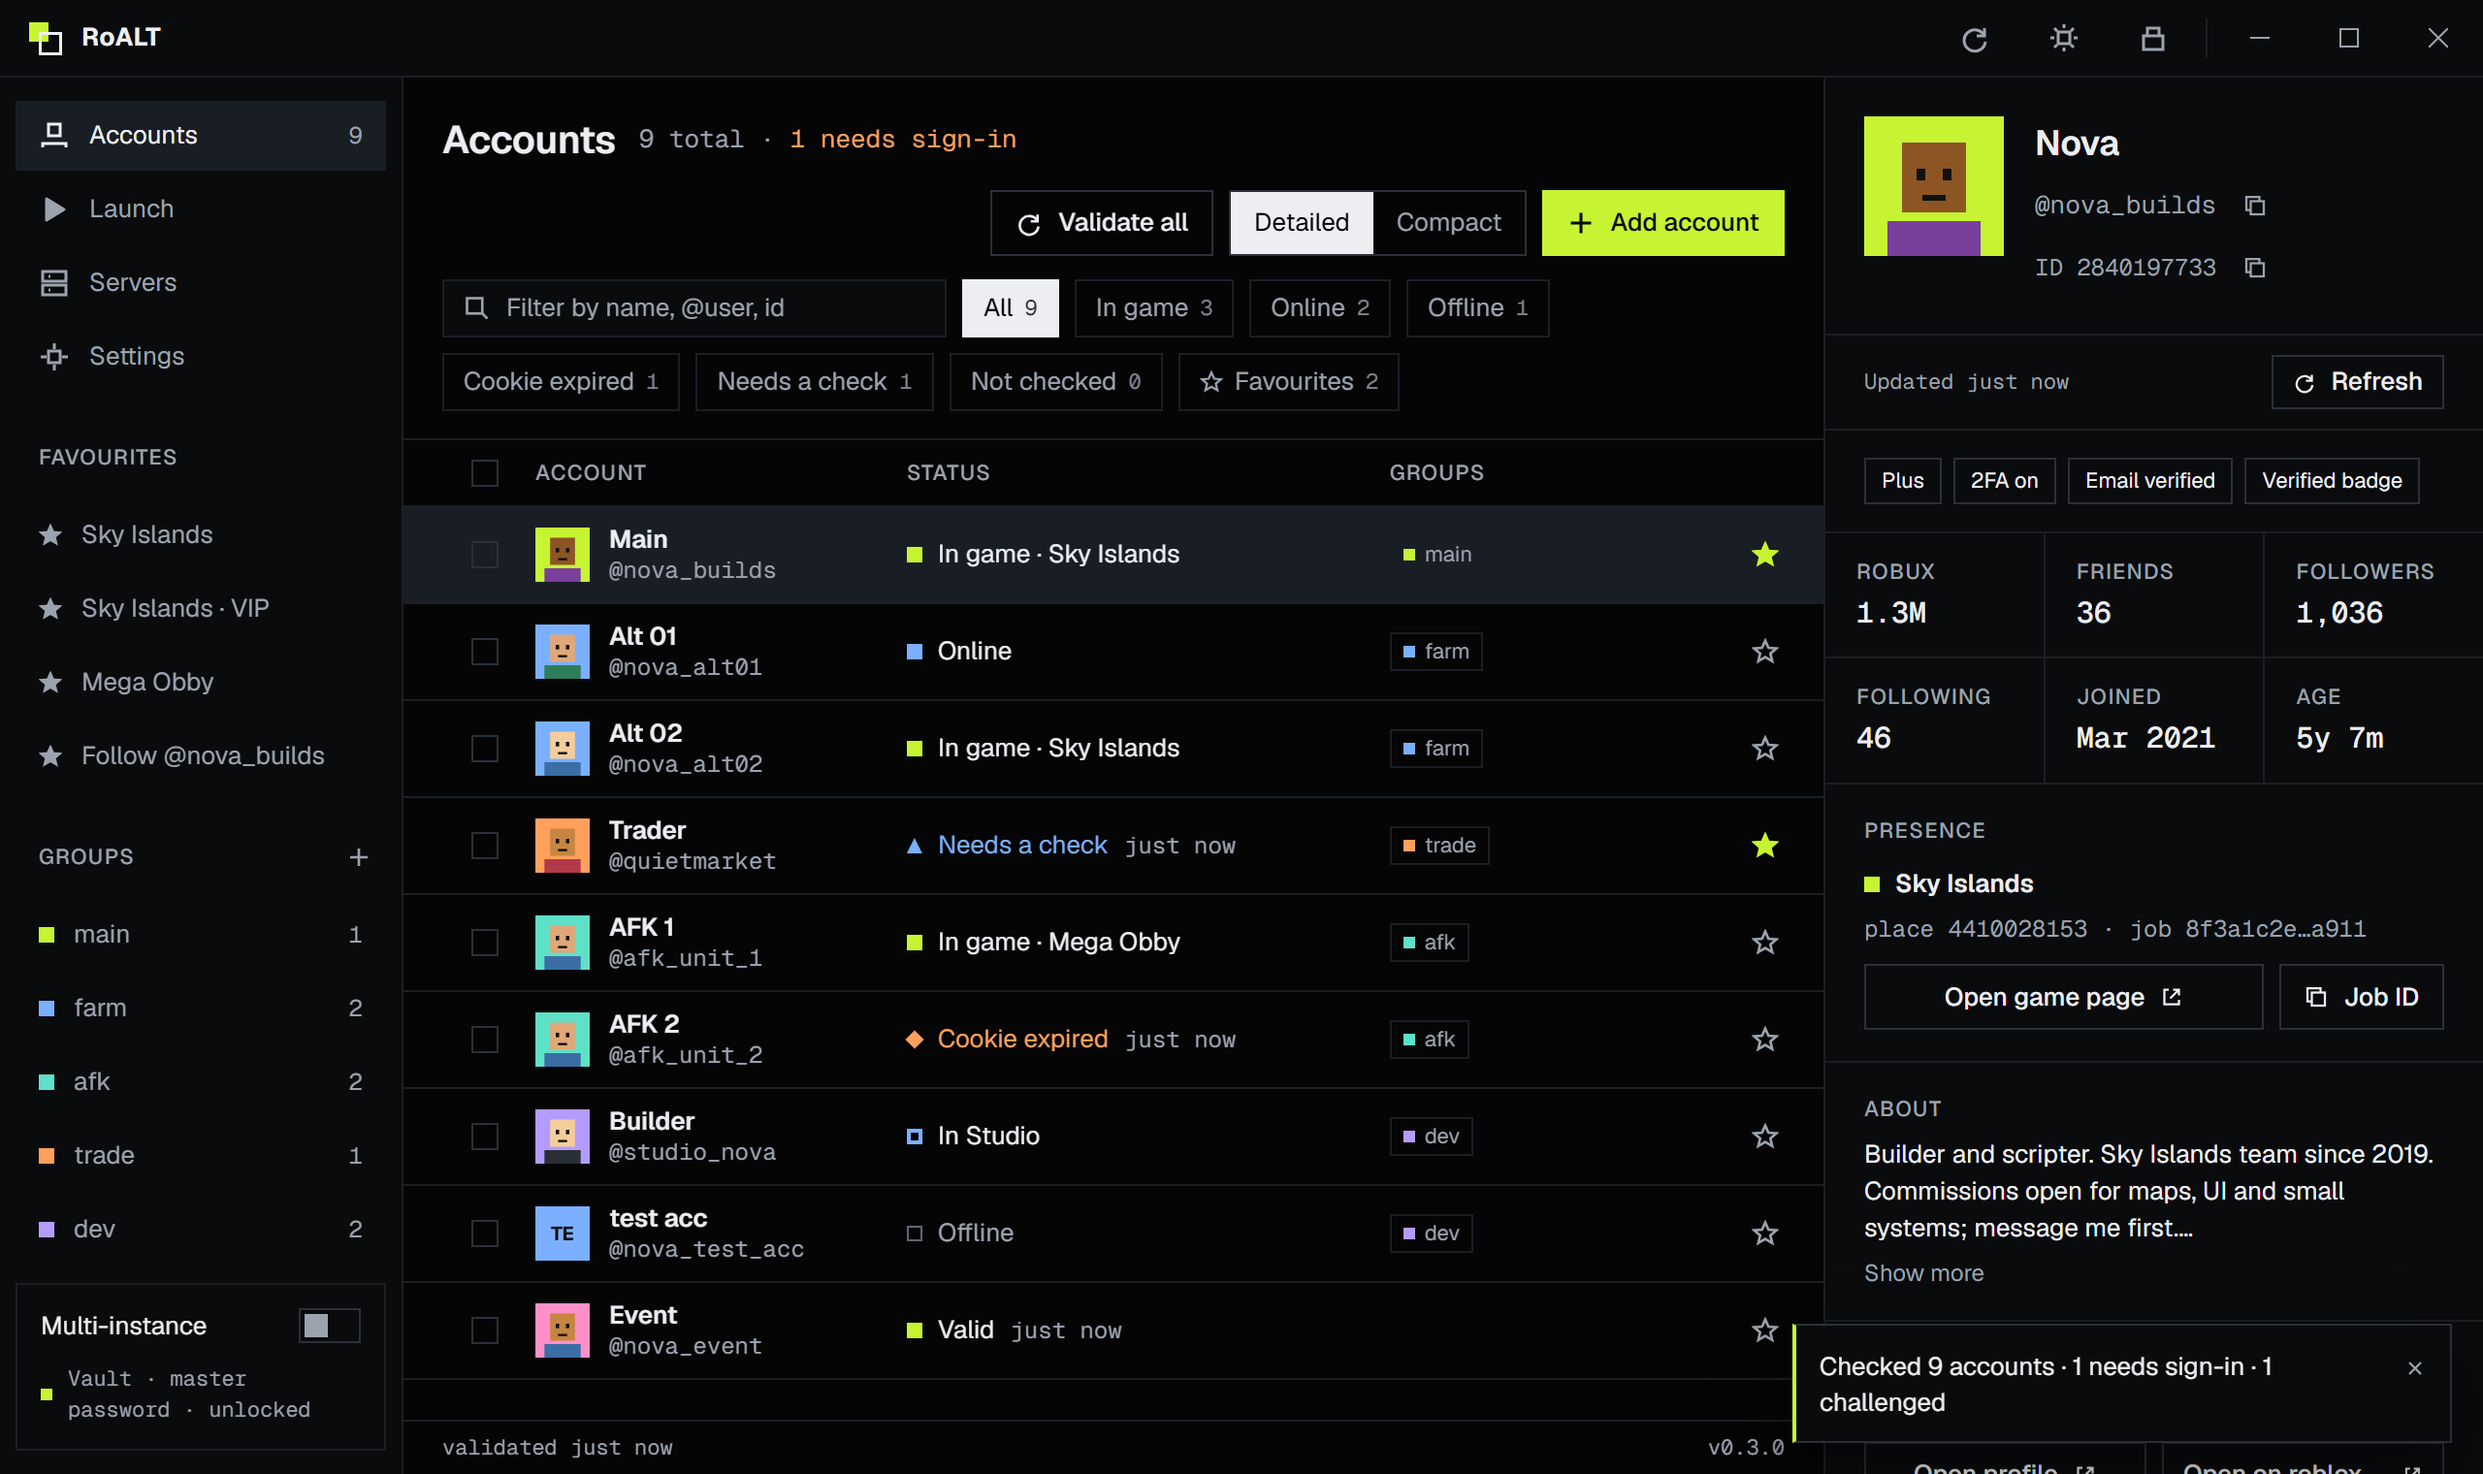
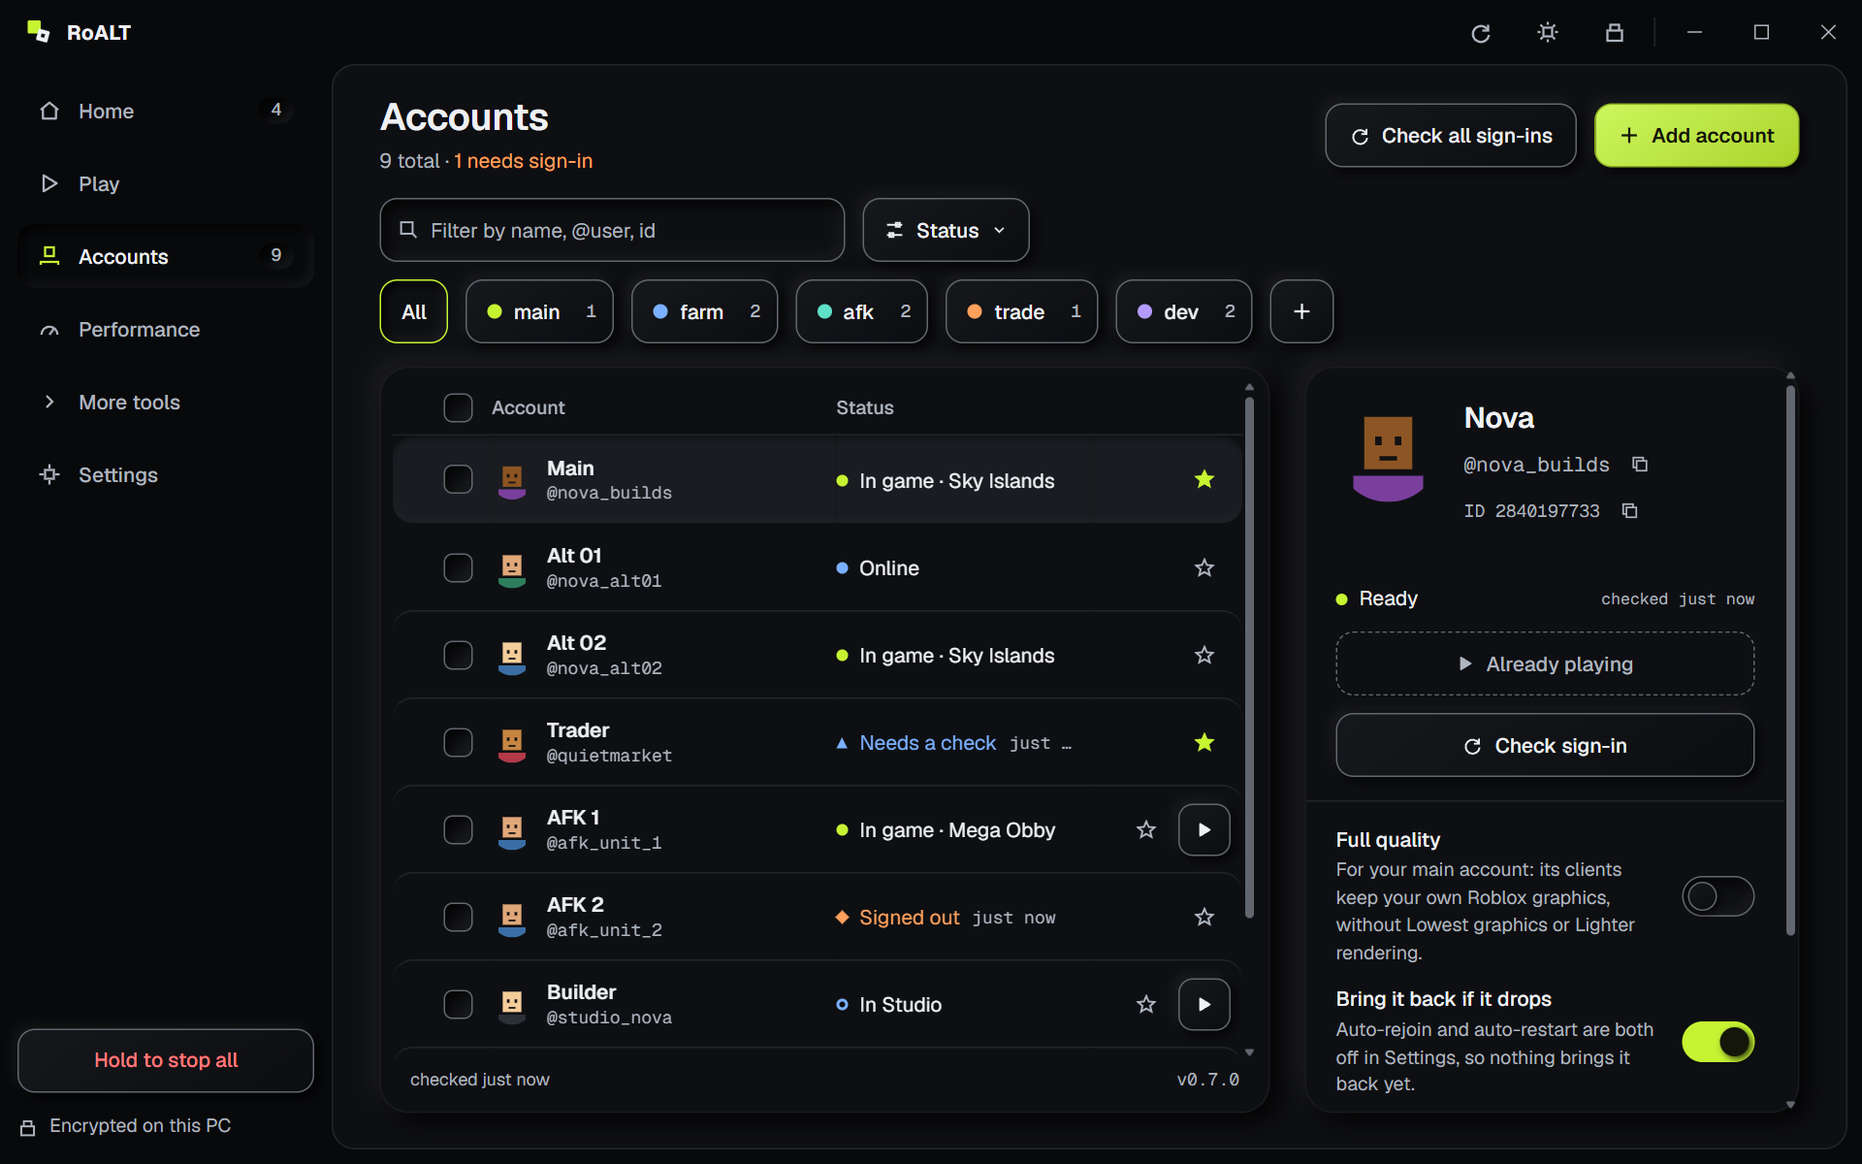
README: new design screenshots, 0.7.0 features
Screenshots of the Soft Deck design from the mock UI (made-up accounts). Adds
free resizing, the recovery code, graphics flags, Anti-AFK on Home, skip splash
and the version card, and brings shortcuts and the module list up to date.

diff --git a/README.md b/README.md
@@ -28,7 +28,7 @@ Your cookies stay encrypted on your PC. Nothing is sent anywhere except Roblox.
 
 <br>
 
-<img src="docs/images/accounts.png" alt="RoALT's Accounts view: a list of accounts with their status, groups and a details panel" width="900">
+<img src="docs/images/home.png" alt="RoALT's Home page: four running clients with live previews, and CPU, memory and GPU dials" width="900">
 
 </div>
 
@@ -60,6 +60,17 @@ and only ever one client open at a time. RoALT removes all of that.
 
 It runs entirely on your PC. There is no RoALT account, no RoALT server and no tracking.
 
+<table>
+<tr>
+<td width="50%"><img src="docs/images/accounts.png" alt="Accounts: every account with its status, groups and a details panel"><br><sub><b>Accounts:</b> status, groups and details at a glance</sub></td>
+<td width="50%"><img src="docs/images/play.png" alt="Play: pick who plays, then paste where to"><br><sub><b>Play:</b> who plays, where, then the big button</sub></td>
+</tr>
+<tr>
+<td><img src="docs/images/performance.png" alt="Performance: FPS cap, lowest graphics and graphics flags"><br><sub><b>Performance:</b> FPS cap, graphics flags, presets and profiles</sub></td>
+<td><img src="docs/images/settings.png" alt="Settings: theme, accent colour, background image and more"><br><sub><b>Settings:</b> dark or light, any accent, your own background</sub></td>
+</tr>
+</table>
+
 <br>
 
 ## ✨ Features
@@ -70,7 +81,7 @@ It runs entirely on your PC. There is no RoALT account, no RoALT server and no t
 
 ### 🔐 Encrypted vault
 Cookies are encrypted with **Windows DPAPI**, or with your own **master password** (Argon2id + AES-256-GCM)
-with auto-lock. Reveal and copy sit behind **Windows Hello** or the master password.
+with auto-lock and an optional **recovery code**. Reveal and copy sit behind **Windows Hello** or the master password.
 
 </td>
 <td width="50%" valign="top">
@@ -122,9 +133,10 @@ CPU, memory, disk/network and uptime per client, with sparklines and totals, ref
 </td>
 <td valign="top">
 
-### 🎚 Performance tools
-Cap one client's CPU (down to 5%), use efficiency mode, pin cores or trim memory. An adaptive mode
-limits every client that isn't in front. Opt-in upload limit for all clients.
+### 🎚 Performance tab
+FPS cap, lowest graphics and graphics flags (MSAA, textures, no grass, gray sky), with presets and
+shareable profiles. Cap one client's CPU, pin cores or trim memory. Adaptive mode limits every client
+that isn't in front.
 
 </td>
 </tr>
@@ -148,8 +160,9 @@ it is signed by Roblox Corporation. Optional auto-update when no client runs.
 <td valign="top">
 
 ### 🖥 Home
-Every running client as a live window thumbnail. Right-click one to focus, minimize, shrink it to a
-micro window, limit it or close it. Tile all clients in a grid in one click.
+Every running client as a live window thumbnail, with your PC's CPU, memory and GPU. Right-click one to
+focus, minimize, shrink it to a tiny window, limit it or close it. Tile all clients in one click. Anti-AFK
+has its own switch here.
 
 </td>
 <td valign="top">
@@ -157,6 +170,22 @@ micro window, limit it or close it. Tile all clients in a grid in one click.
 ### 🛡 Public networks
 Windows calls some networks **Public** (café, hotel, school Wi-Fi). Turn off **Allow public networks** in Settings,
 Security, and RoALT won't launch on them and a master-password vault locks there. It is on by default.
+
+</td>
+</tr>
+<tr>
+<td valign="top">
+
+### ↔ Free resizing
+Drag a client's edges to any size, past the 800×600 minimum Roblox holds it to, and move small windows
+without them snapping back. Or start every client tiny.
+
+</td>
+<td valign="top">
+
+### 🎨 Soft Deck design
+A soft, very dark interface with a floating page, or a light theme. Pick any accent colour and your own
+background image, and skip the splash screen if you'd rather not wait.
 
 </td>
 </tr>
@@ -173,24 +202,24 @@ Security, and RoALT won't launch on them and a master-password vault locks there
 | 🚀 **Play** | Game links, place IDs, `roblox://` links, job IDs, private server links, `roblox.com/share` links (both formats), universes, profiles, `@username`. Join a friend or one of your other accounts. Favourites on the Play page and in the tray. `Ctrl+Enter` to launch. |
 | 🪟 **Batches** | Accounts launch strictly one after another with a stagger (default 6 s). **Same server**: *Pick a server* finds one with room for everyone first; *Follow the first* sends the rest to wherever the first account landed. Cancel at any time; one click re-picks the accounts that didn't launch. |
 | 🔁 **Recovery** | Auto-rejoin after kicks, shutdowns and lost connections (not after you leave on purpose). Opt-in auto-restart for crashes, frozen windows (30 s) and a memory limit. Crash breaker: default 3 relaunches in 10 minutes, with growing backoff. Per-account "Allow disconnect". Crash history with the log's reason. |
-| ↔ **Free resizing** | Drag a client's edge to any size, past the minimum Roblox holds its window to. RoALT sizes the window itself (a mouse hook in RoALT's own process); nothing goes into the client. |
+| ↔ **Free resizing** | Drag a client's edge to any size, past the minimum Roblox holds its window to, and move a small window by its title bar without it growing back. RoALT sizes the window itself (a mouse hook in RoALT's own process); nothing goes into the client. **Start clients tiny** opens every new client at a size you choose. |
 | 🖥 **Home** | Live preview per client at 15, 30 or 60 FPS (your pick, while RoALT is on screen), with state, game, uptime, CPU and RAM. The **⋯** key, right-click, the menu key or `Shift+F10` for focus, minimize, restore, tiny window (any size, 320×240 by default) and back, CPU limit, efficiency mode, anti-AFK, close. **Tile** fits all clients in a grid on the screen; **Tile micro** lays out micro windows. Minimize all, Restore all. |
 | 🛑 **Stop all** | Hold one button in the sidebar, use the tray, or press a global **panic hotkey** you choose (off by default) to end every Roblox process and stop pending launches and rejoins. |
 | ⏲ **Automation** | Minimize each new client on launch. Auto-shutdown timer: close the clients and shut the PC down at a set time (survives a RoALT restart, can be cancelled). Hourly Roblox log cleaner (logs older than a day or over 50 MB). Open logs button; RoALT's own logs rotate at 5 MB. |
 | ⚙ **Launch control** | Custom launch arguments (default and per account, checked before use and never logged), a cooldown between launches, a configurable close grace (1–60 s). |
 | 🎚 **Limits** | Per client: CPU cap, efficiency mode, core affinity, working-set trim (every N minutes or "Trim now"). Adaptive manager for background clients; your manual limits always win. **Memory throttle**: a client over a RAM limit gets a CPU cap, which lowers its frame rate, until it drops under 90 % of the limit. |
 | 🎞 **FPS cap & graphics** | A default frame-rate cap (5–360), a per-account override and a per-launch one under Play's More options (a rejoin keeps it), plus the lowest graphics for every client (on by default). Set through Roblox's own Maximum Frame Rate and Graphics Quality just before each client starts; your own Roblox settings are put back once it has read them, and again when such a client closes (or when RoALT next starts, if it wasn't running then). Everything performance-related lives in its own **Performance** tab. |
-| 🪶 **Lighter rendering** | Clients RoALT starts get Roblox's lightest allowed rendering flags (lowest textures, no anti-aliasing or grass, low detail; on by default): about half the GPU time and less GPU memory per client. Written just before each client starts and put back once it has read them; skipped under a bootstrapper. |
+| 🪶 **Lighter rendering** | Clients RoALT starts get low geometry detail and the graphics flags below (on by default): less GPU time and memory per client. Written just before each client starts and put back once it has read them; skipped under a bootstrapper. |
 | 🎚 **Graphics flags** | Pick MSAA, texture quality, rendering mode, gray sky, no grass and lowest render quality, from the FastFlags Roblox still allows. Roblox may ignore Vulkan and OpenGL. |
 | 👑 **Main account** | Mark an account **Full quality** and its clients keep your own Roblox graphics, without lowest graphics or lighter rendering. |
 | 🕘 **Recent servers** | Each account remembers the servers it reached (stored on this PC); rejoin a public one in a click. |
 | 🩺 **Diagnostics** | Copy or save a report for bug reports, from Debug: tickets, cookies, your Windows user name and IP addresses are removed. |
 | 📤 **Performance profiles** | Export your performance settings to a file or a share code, or import someone else's: you see what changes, then apply it. Only performance settings travel, never accounts, passwords, launch arguments or hotkeys. |
 | 📶 **Bandwidth** | One upload cap for all Roblox clients through a Windows QoS policy. Applied only when you click Apply (admin prompt); cleared when Windows restarts. |
-| 💤 **Anti-AFK** | Off by default. While you are away from the PC, every few minutes each client is briefly brought to the front and gets one Space press, so Roblox doesn't kick it after 20 idle minutes. Stops the moment you touch the mouse. Or **in the background**: a Tab press is posted to the window without bringing it to the front, even when minimized (Roblox may not count it in every game; auto-rejoin stays the fallback). Per-client opt-out. |
+| 💤 **Anti-AFK** | Off by default, with a switch on Home. While you are away from the PC, every few minutes each client is briefly brought to the front and gets one Space press, so Roblox doesn't kick it after 20 idle minutes. Stops the moment you touch the mouse. Or **in the background**: a Tab press is posted to the window without bringing it to the front, even when minimized (Roblox may not count it in every game; auto-rejoin stays the fallback). Per-client opt-out. |
 | 🔔 **Discord** | Crash, disconnect, restart and batch alerts, plus an opt-in alert when a client gets into a game. Mute alerts per account. **Rich presence** (on by default, a switch in Settings): your profile shows "Playing RoALT", idling or with the game and how many alts run. |
 | 🔄 **RoALT updates** | Looks for a new RoALT on GitHub Releases at start and every 6 hours (can be turned off; *Check now* in Settings). A banner offers it; *Update now* downloads it, checks its release signature, installs it silently and restarts RoALT. Never installs on its own. |
-| 🧰 **Comfort** | Tray menu with favourites, close to tray, relaunch an ended client in one click, movable data folder, keyboard shortcuts. Dark, light or system theme, any accent colour, and your own background image. |
+| 🧰 **Comfort** | Tray menu with favourites, close to tray, relaunch an ended client in one click, movable data folder, keyboard shortcuts. Dark, light or system theme, any accent colour, and your own background image, with a choice of how much the theme covers it. Optional skip of the splash screen. Your RoALT and Roblox versions at the top of Settings. |
 
 </details>
 
@@ -276,7 +305,7 @@ In **Settings → Launching**, turn on **Auto-rejoin** (and, if you like, **Auto
 
 | Keys | Action |
 |---|---|
-| `Ctrl+1` … `Ctrl+7` | Home, Accounts, Play, Servers, Settings, Monitor, Discord |
+| `Ctrl+1` … `Ctrl+9` | Home, Accounts, Play, Servers, Settings, Monitor, Discord, Debug, Performance |
 | `Ctrl+N` | Add account |
 | `Ctrl+F` | Search accounts |
 | `Ctrl+Enter` | Play |
@@ -346,6 +375,8 @@ In **Settings → Launching**, turn on **Auto-rejoin** (and, if you like, **Auto
   mode, posts a Tab press to its window.
 - **Window tools** (thumbnails, minimize, micro, tile) use ordinary Windows window calls (`PrintWindow`, `ShowWindow`,
   `SetWindowPos`).
+- **Free resizing** uses a low-level mouse hook in RoALT's own process. It sees where the mouse is across the PC, stores
+  nothing and sends nothing, and only acts on a press on the edge or title bar of a client RoALT started.
 - **Bandwidth limit (opt-in)** adds a Windows QoS policy named `RoALT-Roblox` through an admin prompt, only when you click
   Apply. Windows drops it on restart. It is the only change RoALT makes to Windows.
 
@@ -418,7 +449,8 @@ Without a code the password can't be recovered: that is what makes it safe. Remo
 <br>
 
 Yes. RoALT launches through the registered bootstrapper and follows its clients. It won't install Roblox updates over a
-bootstrapper, since the bootstrapper keeps Roblox up to date itself.
+bootstrapper, since the bootstrapper keeps Roblox up to date itself. RoALT's graphics flags are skipped there, because a
+bootstrapper writes its own.
 
 </details>
 
@@ -472,8 +504,8 @@ flowchart LR
 |---|---|
 | [`vault/`](src-tauri/src/vault) | Envelope encryption: one random data key encrypts every secret (AES-256-GCM, row-bound AAD). The key is wrapped with DPAPI, or with an Argon2id key from the master password and then DPAPI. Windows Hello re-auth, `.roalt` backups. |
 | [`roblox_api/`](src-tauri/src/roblox_api) | The one typed Roblox client. Every URL in `endpoints.rs`. CSRF from the real request's 403, per-route queues driven by `x-ratelimit-*`, rotated `.ROBLOSECURITY` saved atomically, three error-body shapes parsed. |
-| [`launcher/`](src-tauri/src/launcher) | `target.rs` parses any pasted link locally; `uri.rs` builds the `roblox-player:` URI exactly like the website; `bulk.rs` runs batches and same-server; `fps.rs` the FPS cap; `update.rs` + `authenticode.rs` install Roblox updates after `WinVerifyTrust`. |
-| [`instances/`](src-tauri/src/instances) | `tracker.rs` ties each client to its account by PID, start time and log file; `logwatch.rs` reads job IDs and disconnects; `rejoin.rs` and the crash breaker; `limits.rs` CPU caps, affinity, efficiency mode, trims; `metrics.rs`; `multi.rs` the singleton lock and take-over; `window.rs` thumbnails, micro and tile; `qos.rs`; `afk.rs`. |
+| [`launcher/`](src-tauri/src/launcher) | `target.rs` parses any pasted link locally; `uri.rs` builds the `roblox-player:` URI exactly like the website; `bulk.rs` runs batches and same-server; `client_settings.rs` the FPS cap and lowest graphics; `flags.rs` the rendering flags; `update.rs` + `authenticode.rs` install Roblox updates after `WinVerifyTrust`. |
+| [`instances/`](src-tauri/src/instances) | `tracker.rs` ties each client to its account by PID, start time and log file; `logwatch.rs` reads job IDs and disconnects; `rejoin.rs` and the crash breaker; `limits.rs` CPU caps, affinity, efficiency mode, trims; `metrics.rs`; `multi.rs` the singleton lock and take-over; `window.rs` thumbnails, micro and tile; `resize.rs` free resizing; `qos.rs`; `afk.rs`. |
 | [`discord.rs`](src-tauri/src/discord.rs) | Webhook alerts: host-checked URL, events coalesced every 2 s, `retry_after` honoured. |
 | [`webview.rs`](src-tauri/src/webview.rs) | Sign-in and session windows on temporary WebView2 profiles, deleted after use. |
 | [`storage/`](src-tauri/src/storage) | SQLite through `rusqlite` with numbered migrations. Running clients live in memory only. |
@@ -556,7 +588,7 @@ npm run tauri dev        # run the app with hot reload
 │  ├─ bindings/            ts-rs generated types (committed)
 │  ├─ dev/mockIpc.ts       mock backend for `npm run dev`
 │  ├─ ui/                  shared components
-│  └─ features/            dashboard · accounts · launch · servers · monitor · discord · settings · vault
+│  └─ features/            dashboard · accounts · launch · servers · performance · monitor · discord · debug · settings · splash · vault
 ├─ src-tauri/              Rust backend
 │  ├─ src/
 │  │  ├─ main.rs           builder, plugins, managed state
